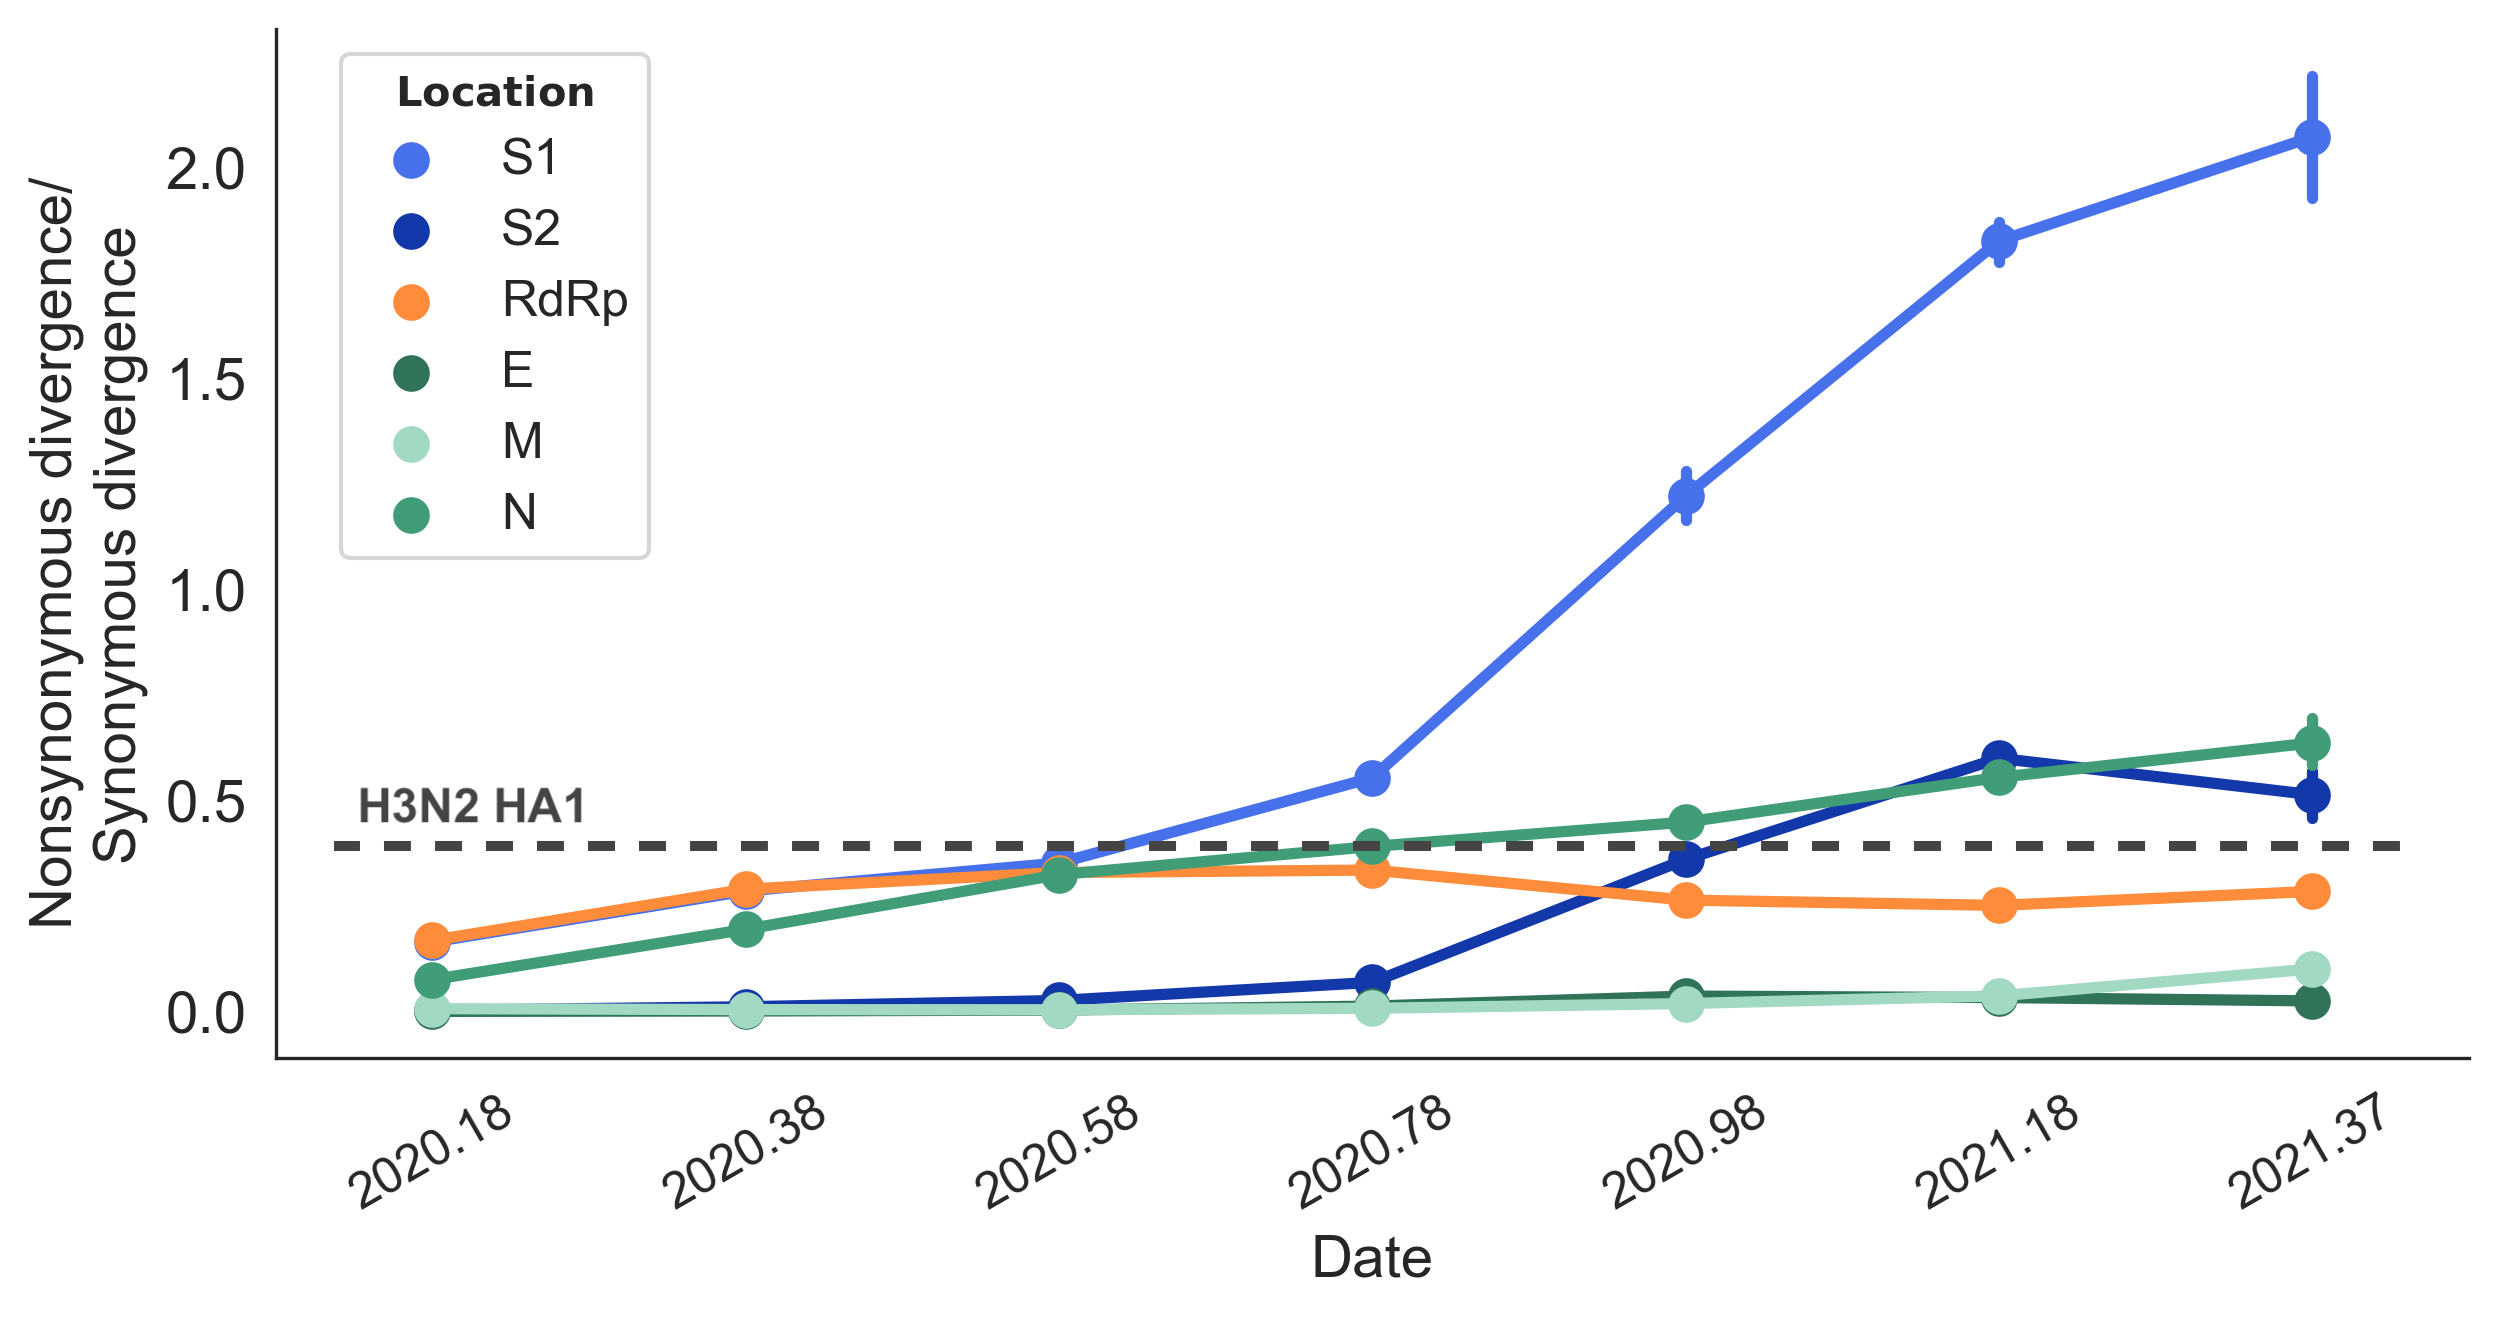
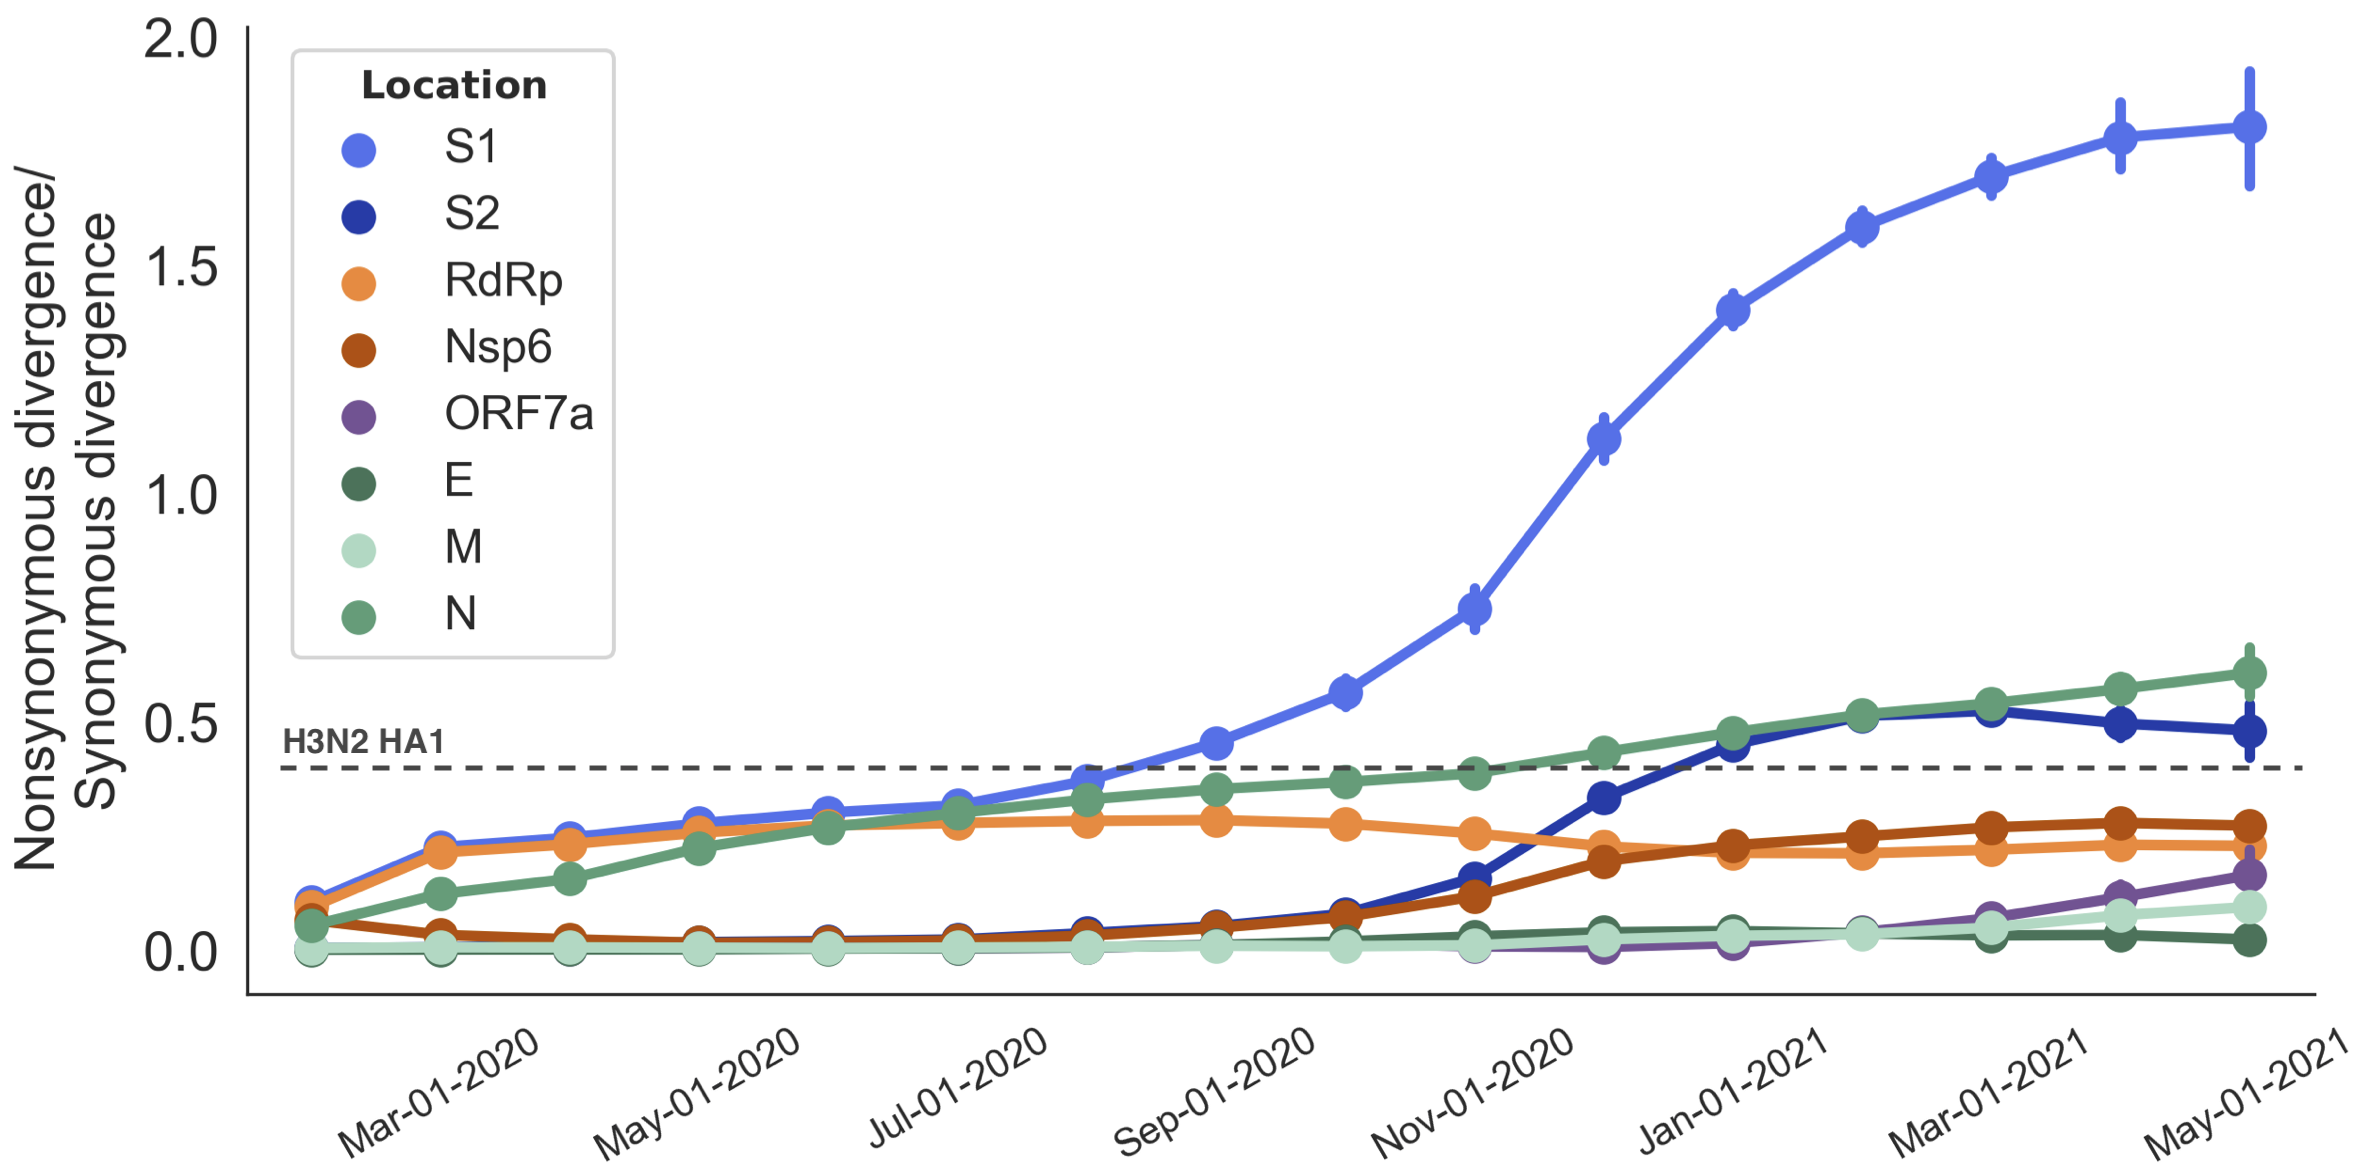
Update VRBPAC talk

diff --git a/talks/_posts/2022-04-06-sars-cov-2-continuing-evolution-vrbpac.html b/talks/_posts/2022-04-06-sars-cov-2-continuing-evolution-vrbpac.html
@@ -1,6 +1,6 @@
 ---
 layout: talk_reveal4
-title: Continuing SARS-CoV-2 evolution and strategies for vaccine strain selection
+title: Continuing SARS-CoV-2 evolution under population immune pressure
 venue: FDA
 event: Vaccines and Related Biological Products Advisory Committee Meeting
 author: Trevor Bedford
@@ -55,8 +55,26 @@ Outline:
 	</p>
 </section>
 
-<section data-transition="fade" data-background="#5097BA">
+<!-- <section data-transition="fade" data-background="#5097BA">
 	<h1 class="title">SARS-CoV-2 evolution</h1>
+</section> -->
+
+<section>
+	<h3>Repeated emergence of variant of concern viruses</h3>
+	<div class="left" style="float:left; width:49%">
+		<img data-src="/images/talks/ncov_variants_501Y.V1_clock_2021_02_10.png">
+	</div>
+	<div class="right" style="float:right; width:49%">
+		<img data-src="/images/talks/ncov_variants_501Y.V3_clock_2021_03_16.png">
+	</div>
+</section>
+
+<section>
+	<h3>Rapid adaptive evolution focused on S1 subunit</h3>
+	<img class="stretch" data-src="/images/talks/sarscov2_adaptive_evolution_dnds_h3n2.png">
+	<div class="citation">
+		<a href="/papers/kistler-sarscov2-adaptive-evolution/">Kistler et al. 2022. Cell Host Microbe.</a>
+	</div>
 </section>
 
 <section>
@@ -94,7 +112,7 @@ Outline:
  	<img class="stretch" data-src="/images/talks/ncov_mutation_rate_compared_to_flu_2022_02_20.png">
 </section>
 
-<section class="left-align">
+<!-- <section class="left-align">
 	<div class="left" style="float:left; width:62%">
 		<h3>Primary hypotheses for Omicron's origin</h3>
 		<p>
@@ -118,7 +136,7 @@ Outline:
 	<div class="right" style="float:right; width:35%">
 		<img data-src="/images/talks/ncov_omicron_sublineages_tree.png">
 	</div>
-</section>
+</section> -->
 
 <section>
 	<h3>Omicron spike mutations substantially drop VE against infection</h3>
@@ -160,7 +178,7 @@ Outline:
 	</p>
 </section>
 
-<section>
+<!-- <section>
 	<h3>Reduced intrinsic severity relative to other VOC viruses</h3>
 	<img class="stretch" data-src="/images/talks/ncov_severity_variants_wa_2022_02_16.png">
 	<div class="citation">
@@ -171,11 +189,11 @@ Outline:
 <section>
 	<h3>Immunity and reduced intrinsic severity has dropped CFR</h3>
 	<img class="stretch" data-src="/images/talks/ncov_severity_lagged_cfr_prediction_2022_03_29.png">
-</section>
+</section> -->
 
-<section data-transition="fade" data-background="#60AA9E">
+<!-- <section data-transition="fade" data-background="#60AA9E">
 	<h1 class="title">Future perspectives</h1>
-</section>
+</section> -->
 
 <section>
 	<h3>SARS-CoV-2 will continue to evolve to escape population immunity, though with multiple potential avenues</h3>
@@ -206,7 +224,7 @@ Outline:
 	</p>
 </section>
 
-<section class="left-align">
+<!-- <section class="left-align">
 	<h3>Broad expectations of endemicity based on comparison with flu</h3>
 	<p>
 	<ol>
@@ -231,13 +249,13 @@ Outline:
 	<p>
 		Seasonality suggests winter "COVID season", but Omicron-like events could overcome seasonality.
 	</p>
-</section>
+</section> -->
 
-<section data-transition="fade" data-background="#75B681">
+<!-- <section data-transition="fade" data-background="#75B681">
 	<h1 class="title">Vaccine strain selection</h1>
-</section>
+</section> -->
 
-<section>
+<!-- <section>
 	<h3>Influenza vaccine strain selection strategy</h3>
 	<p>
 		General strategy for antigenically evolving seasonal influenza viruses is attempt to match vaccine strain as close as possible to circulating viruses
@@ -246,17 +264,17 @@ Outline:
 	<div class="citation">
 		<a href="https://nextstrain.org/flu/seasonal/h3n2/ha/6y">nextstrain.org</a>
 	</div>
-</section>
+</section> -->
 
-<section>
+<!-- <section>
 	<h3>Influenza vaccine strain selection timeline</h3>
 	<p>
 		Due to manufacturing and distribution, vaccine strain selection occurs in Feb for an fall vaccination campaign ahead of seasonal influenza epidemic
 	</p>
 	<img class="stretch" data-src="/images/talks/flu_vaccine_schedule.jpg">
-</section>
+</section> -->
 
-<section class="left-align">
+<!-- <section class="left-align">
 	<h3>Considerations for SARS-CoV-2 vaccine strain selection</h3>
 	<p>
 	<ol>
@@ -274,7 +292,7 @@ Outline:
 		</li>
 	</ol>
 	</p>
-</section>
+</section> -->
 
 <!-- <section>
 	<h3>Higher titers from Omicron-specific boost in mice</h3>
